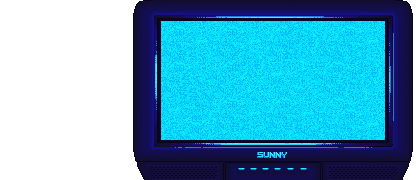
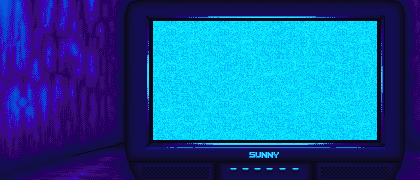
Fixed style in components under games page

diff --git a/components/Canvas/CanvasGame.tsx b/components/Canvas/CanvasGame.tsx
@@ -80,14 +80,12 @@ const CanvasGame = ({ image }: CanvasProps) => {
 
   // TV LIGHT
   useEffect(() => {
-    if (!menuVisibility) {
-      const interval = setInterval(() => {
-        if (tvLightColor === 3) setTvDirection(-1);
-        if (tvLightColor === 1) setTvDirection(1);
-        setTvLightColor(tvLightColor + tvDirection);
-      }, 50);
-      return () => clearInterval(interval);
-    }
+    const interval = setInterval(() => {
+      if (tvLightColor === 3) setTvDirection(-1);
+      if (tvLightColor === 1) setTvDirection(1);
+      setTvLightColor(tvLightColor + tvDirection);
+    }, 75);
+    return () => clearInterval(interval);
   }, [tvLightColor, tvDirection, menuVisibility]);
 
   //TV NOISE
@@ -104,14 +102,14 @@ const CanvasGame = ({ image }: CanvasProps) => {
 
   useEffect(() => {
     if (indexesTvLight.current !== undefined) {
+      changeCanvasColors(
+        indexesTvLight.current as number[][],
+        imageData.current as ImageData,
+        contextRef.current as CanvasRenderingContext2D,
+        tvLightColors.current as number[][][],
+        tvLightColor
+      );
       if (!menuVisibility) {
-        changeCanvasColors(
-          indexesTvLight.current as number[][],
-          imageData.current as ImageData,
-          contextRef.current as CanvasRenderingContext2D,
-          tvLightColors.current as number[][][],
-          tvLightColor
-        );
         changeTvColors(
           indexesTvNoise.current!,
           imageData.current as ImageData,
@@ -122,7 +120,7 @@ const CanvasGame = ({ image }: CanvasProps) => {
         console.log(indexesTvNoise.current, indexesTvLight.current);
         turnOffTv(
           indexesTvNoise.current!,
-          indexesTvLight.current!,
+
           imageData.current!,
           contextRef.current!
         );

diff --git a/utils/functions.ts b/utils/functions.ts
@@ -110,7 +110,7 @@ export const changeRouterLedColors = (
 
 export const turnOffTv = (
   indexesNoise: number[][],
-  indexesLight: number[][],
+
   imageData: ImageData,
   context: CanvasRenderingContext2D
 ) => {
@@ -122,14 +122,7 @@ export const turnOffTv = (
       imageData.data[indexesNoise[i][y] * 4 + 2] = 0;
     }
   }
-  //light
-  for (let i = 0; i < indexesLight.length; i++) {
-    for (let y = 0; y < indexesLight[i].length; y++) {
-      imageData.data[indexesLight[i][y] * 4] = tvLight[i][0];
-      imageData.data[indexesLight[i][y] * 4 + 1] = tvLight[i][1];
-      imageData.data[indexesLight[i][y] * 4 + 2] = tvLight[i][2];
-    }
-  }
+
   context.putImageData(imageData, 0, 0);
 };
 

diff --git a/components/GameMenu/GameMenuStyled.ts b/components/GameMenu/GameMenuStyled.ts
@@ -8,6 +8,7 @@ const GameMenuStyled = styled.div`
   z-index: 2;
   padding: 0;
   position: absolute;
+  background-color: black;
   .game-menu {
     &__list {
       border: 1px solid rgb(95, 81, 255);
@@ -15,6 +16,7 @@ const GameMenuStyled = styled.div`
       color: rgb(95, 81, 255);
       list-style: none;
       padding: 0;
+      margin: 0;
       height: 100%;
       display: flex;
       flex-direction: column;
@@ -25,6 +27,7 @@ const GameMenuStyled = styled.div`
       color: rgb(95, 81, 255);
       list-style: none;
       padding: 0;
+      margin: 0;
       height: 100%;
       display: flex;
       flex-direction: column;

diff --git a/components/GameContent/GameContentStyled.tsx b/components/GameContent/GameContentStyled.tsx
@@ -1,11 +1,11 @@
 import styled from "styled-components";
 
 const GameContentStyled = styled.section`
-  width: 48%;
-  height: 59.5%;
+  width: 47.6%;
+  height: 62%;
   position: absolute;
-  top: 15.5%;
-  left: 39.5%;
+  top: 14%;
+  left: 38%;
   .game-content {
     &__unity-canvas {
       width: 100%;

diff --git a/components/GameList/GameListStyled.ts b/components/GameList/GameListStyled.ts
@@ -8,6 +8,7 @@ const GameListStyled = styled.div`
   z-index: 2;
   position: absolute;
   border: 1px solid rgb(95, 81, 255);
+  background-color: black;
   .menu-wrap {
     &__list {
       width: 100%;
